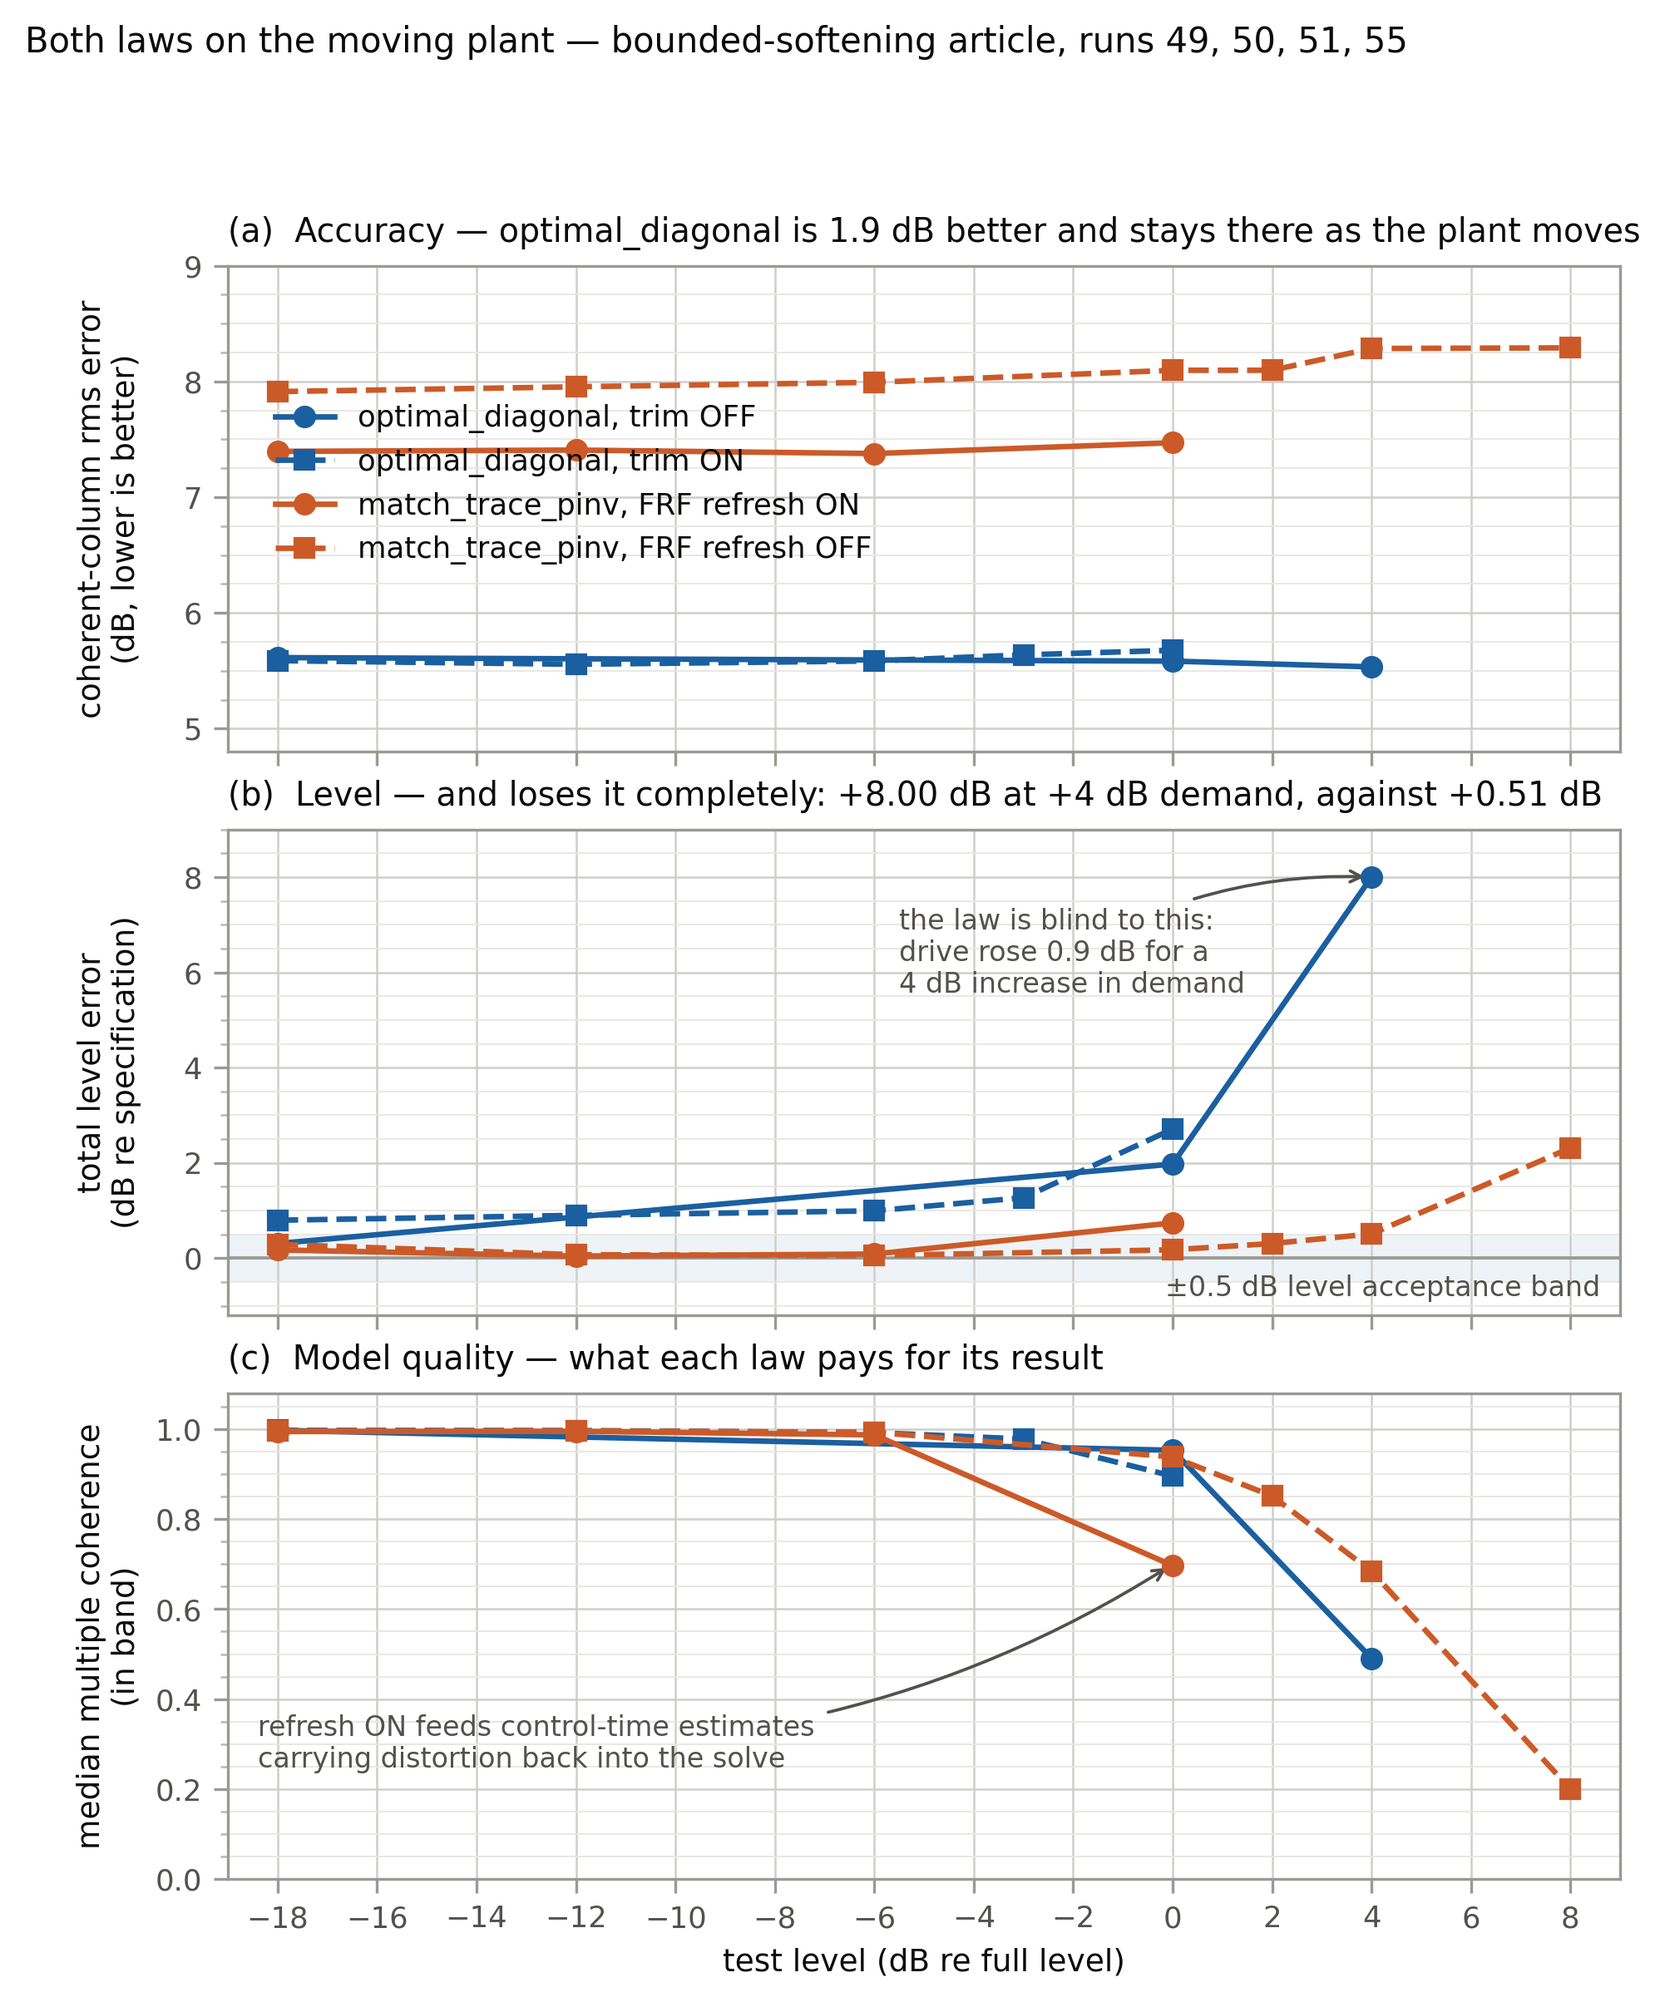
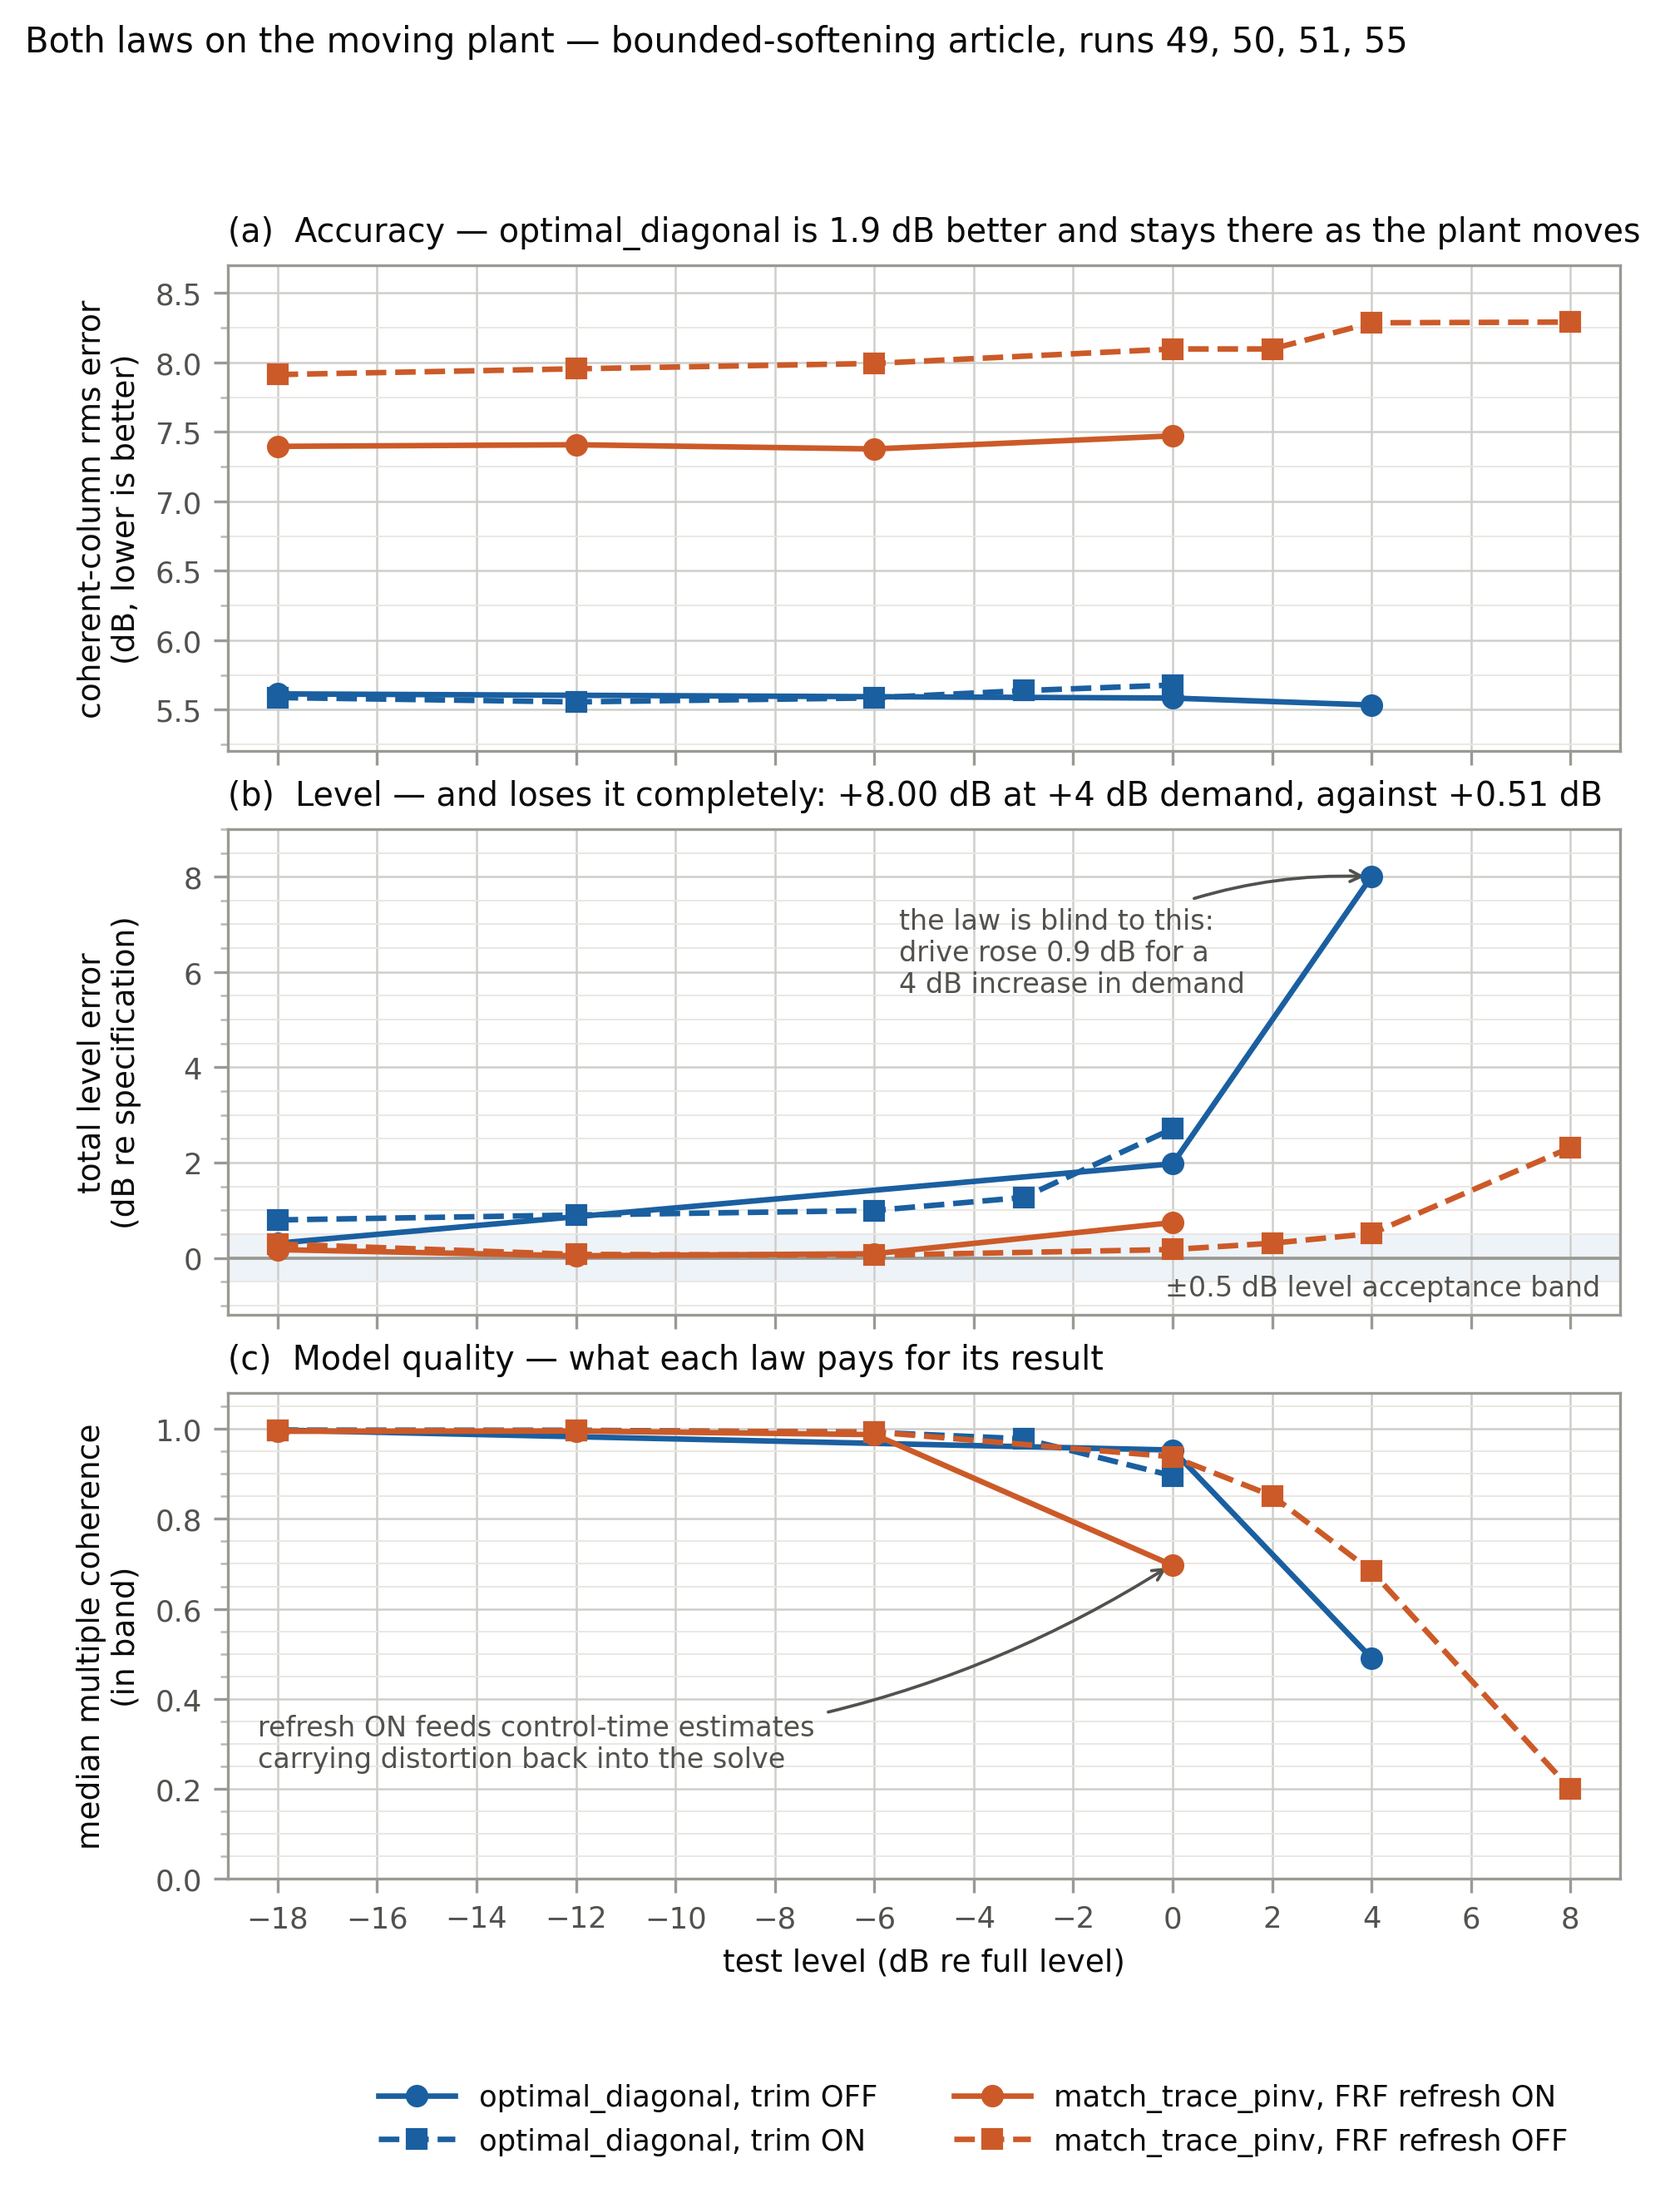
Move the figure 13 legend out of the plot area
Panel (a)'s data sits in two horizontal bands about 1.8 dB apart, so a
four-entry legend cannot go anywhere inside it without covering a trace. My
previous attempt to reposition it put it directly on top of both match_trace
lines, which is worse than where it started, and I shipped that without
re-rendering to check.

The legend is now a figure-level one below panel (c), two columns, where it
cannot collide with anything. Panel (a)'s y range tightens to 5.2-8.7 now
that it no longer has to leave room, which separates the two bands better.

Claude-Session: https://claude.ai/code/session_01HnCQ3isTbjNsTuKh3Lgy2c

diff --git a/examples/sixdrive12resp/code/make_moving_plant_figures.py b/examples/sixdrive12resp/code/make_moving_plant_figures.py
@@ -136,11 +136,11 @@ for key, col, ls, mk, lab in SERIES:
     x, y = get(key, 'coh')
     a3.plot(x, y, ls=ls, marker=mk, color=col, lw=1.6, ms=5.5, zorder=4)
 
-grid(a1, 1.0, 0.25); a1.set_ylim(4.8, 9.0)
+grid(a1, 0.5, 0.25); a1.set_ylim(5.2, 8.7)
 a1.set_ylabel('coherent-column rms error\n(dB, lower is better)')
 a1.set_title('(a)  Accuracy — optimal_diagonal is 1.9 dB better and stays there '
              'as the plant moves', loc='left', pad=7, color=INK)
-a1.legend(loc='center left', ncol=1, bbox_to_anchor=(0.015, 0.55))
+# legend is placed at figure level below panel (c) -- see fig.legend() later
 
 grid(a2, 2.0, 0.5); a2.set_ylim(-1.2, 9.0)
 a2.axhspan(-0.5, 0.5, color='#eef3f8', lw=0, zorder=0)
@@ -168,6 +168,9 @@ a3.annotate('refresh ON feeds control-time estimates\ncarrying distortion back i
 
 fig.suptitle('Both laws on the moving plant — bounded-softening article, runs 49, 50, 51, 55',
              fontsize=10, color=INK, x=0.012, ha='left', y=0.995)
+h, lb = a1.get_legend_handles_labels()
+fig.legend(h, lb, loc='lower center', bbox_to_anchor=(0.54, -0.035),
+           ncol=2, columnspacing=2.6, handlelength=2.6)
 fig.align_ylabels([a1, a2, a3])
 for ext in ('png', 'pdf'):
     fig.savefig(os.path.join(OUT, f'fig13_moving_plant_both_laws.{ext}'), dpi=300,
